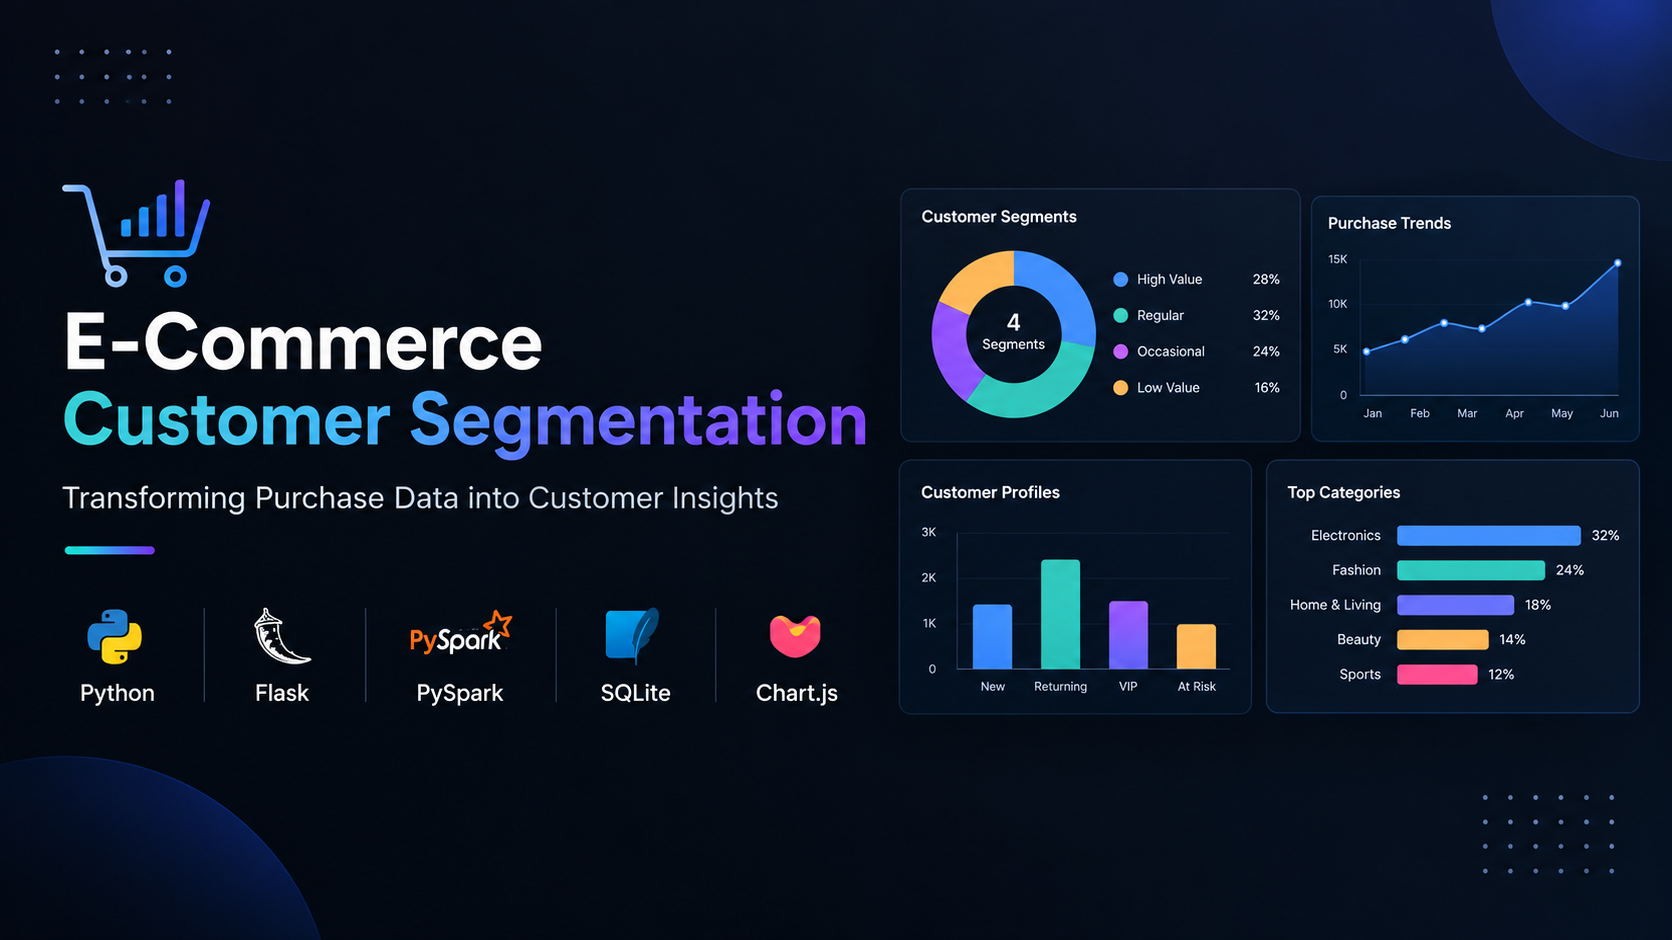
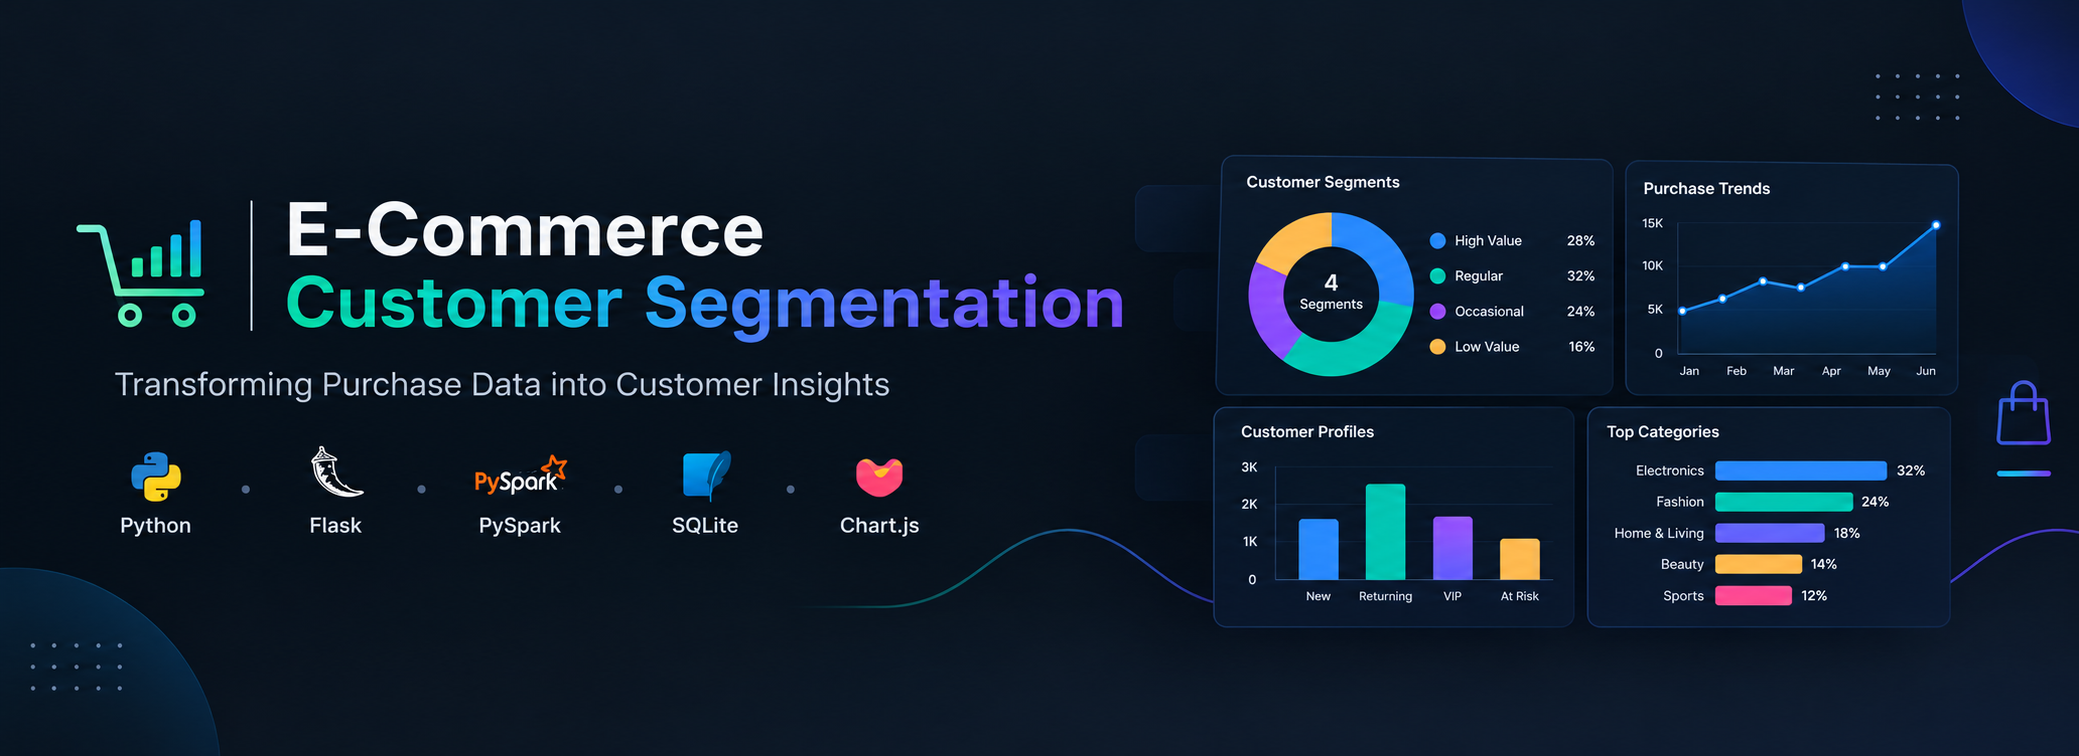
Add SQLite connection module and schema initialization

diff --git a/backend/app/database/connection.py b/backend/app/database/connection.py
@@ -1,0 +1,107 @@
+"""SQLite connection helpers using the standard library sqlite3."""
+import sqlite3
+from contextlib import contextmanager
+from pathlib import Path
+
+from flask import current_app, g
+
+
+DB_KEY = "sqlite_db"
+
+
+def _configure(conn: sqlite3.Connection) -> sqlite3.Connection:
+    """Apply row factory + integrity pragmas consistently to a connection."""
+    conn.row_factory = sqlite3.Row
+    conn.execute("PRAGMA foreign_keys = ON")
+    # Wait briefly instead of failing immediately on concurrent writes.
+    conn.execute("PRAGMA busy_timeout = 5000")
+    return conn
+
+
+def get_db() -> sqlite3.Connection:
+    """Return a connection for the current application context."""
+    if not hasattr(g, DB_KEY):
+        db_path = Path(current_app.config["DATABASE_PATH"])
+        db_path.parent.mkdir(parents=True, exist_ok=True)
+        setattr(g, DB_KEY, _configure(sqlite3.connect(str(db_path))))
+    return getattr(g, DB_KEY)
+
+
+def close_db(exc=None):
+    db = g.pop(DB_KEY, None)
+    if db is not None:
+        try:
+            if exc is not None:
+                db.rollback()
+            db.close()
+        except sqlite3.Error:
+            pass
+
+
+@contextmanager
+def transaction():
+    """Group several statements into one atomic unit of work.
+
+    Commits on success; rolls back the whole unit if any statement raises, so
+    callers never leave the database in a half-applied state.
+    """
+    db = get_db()
+    try:
+        yield db
+        db.commit()
+    except Exception:
+        try:
+            db.rollback()
+        except sqlite3.Error:
+            pass
+        raise
+
+
+def init_db(app):
+    """Create tables from schema.sql and apply additive column migrations."""
+    db_path = Path(app.config["DATABASE_PATH"])
+    db_path.parent.mkdir(parents=True, exist_ok=True)
+    schema_file = Path(__file__).parent / "schema.sql"
+    conn = sqlite3.connect(str(db_path))
+    try:
+        conn.execute("PRAGMA foreign_keys = ON")
+        conn.executescript(schema_file.read_text(encoding="utf-8"))
+        _ensure_columns(conn)
+        conn.commit()
+    finally:
+        conn.close()
+
+
+# Additive column migrations for tables that already exist in older databases.
+# CREATE TABLE IF NOT EXISTS never changes an existing table, so new optional
+# columns must be added explicitly. Keep entries to nullable/DEFAULT columns
+# only (safe, non-destructive additions).
+_COLUMN_MIGRATIONS = {
+    "customer_metrics": {
+        "total_quantity": "REAL",
+        "first_order_date": "TEXT",
+    },
+}
+
+
+def _has_column(conn, table: str, column: str) -> bool:
+    return any(row[1] == column for row in conn.execute(f"PRAGMA table_info({table})"))
+
+
+def _ensure_columns(conn):
+    for table, columns in _COLUMN_MIGRATIONS.items():
+        for column, sql_type in columns.items():
+            if not _has_column(conn, table, column):
+                conn.execute(f"ALTER TABLE {table} ADD COLUMN {column} {sql_type}")
+
+
+
+def foreign_keys_enabled(app) -> bool:
+    """Diagnostic: confirm the app's connection factory enables FK enforcement."""
+    db_path = Path(app.config["DATABASE_PATH"])
+    conn = _configure(sqlite3.connect(str(db_path)))
+    try:
+        return bool(conn.execute("PRAGMA foreign_keys").fetchone()[0])
+    finally:
+        conn.close()
+

diff --git a/backend/app/database/__init__.py b/backend/app/database/__init__.py
@@ -1,0 +1,1 @@
+"""Database access layer: SQLite connection management and schema bootstrap."""
